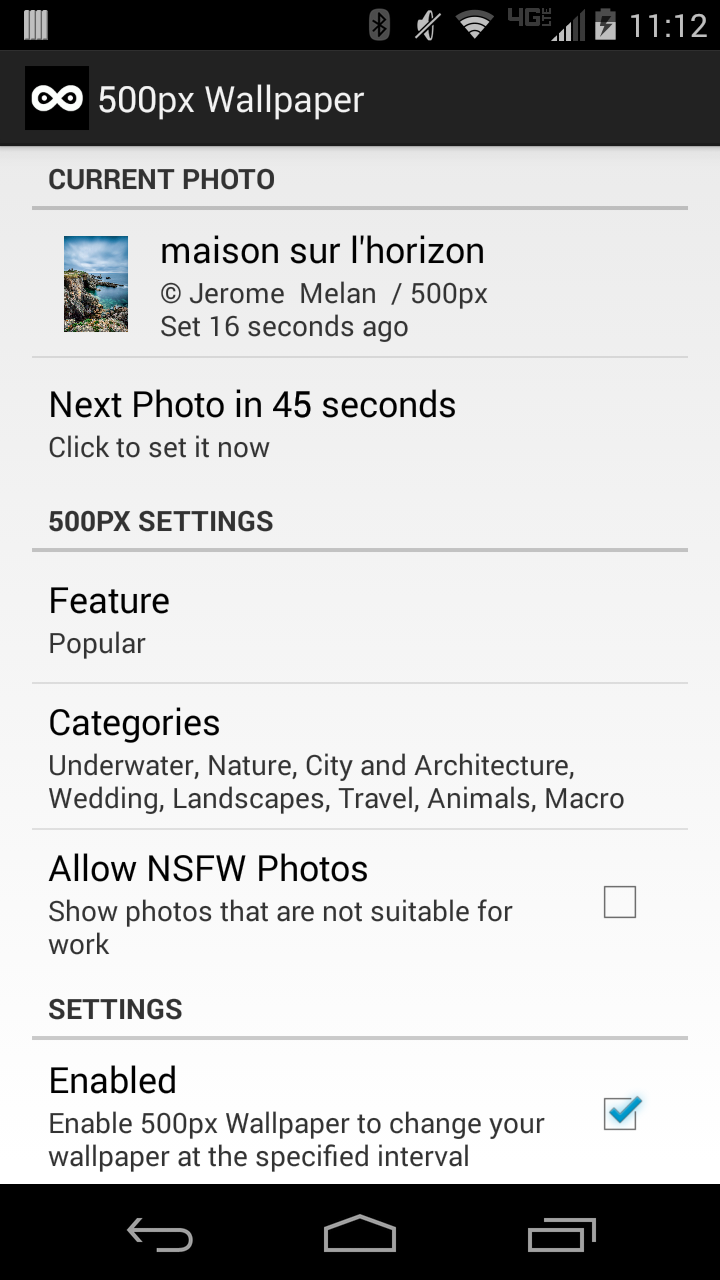
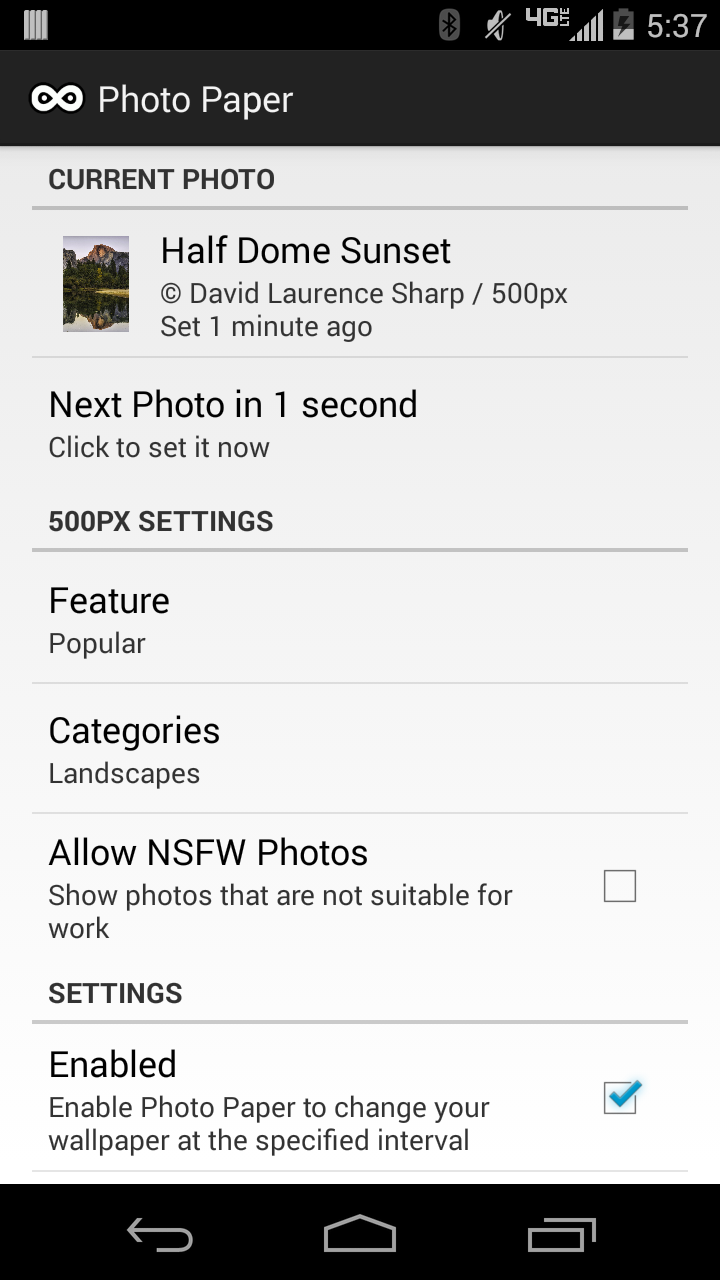
Rename to Photo Paper

diff --git a/PhotoPaper/src/main/java/com/lukekorth/android_500px/helpers/LogReporting.java b/PhotoPaper/src/main/java/com/lukekorth/android_500px/helpers/LogReporting.java
@@ -136,7 +136,7 @@ public class LogReporting {
         private File getFile() {
             File emailableLogsDir  = new File(mContext.getFilesDir(), "emailable_logs");
             emailableLogsDir.mkdir();
-            return new File(emailableLogsDir, "500px-wallpaper.log.gz");
+            return new File(emailableLogsDir, "photo-paper.log.gz");
         }
 
         private void buildEmailIntent(File file) {
@@ -144,8 +144,8 @@ public class LogReporting {
 
             mEmailIntent = new Intent(Intent.ACTION_SEND);
 		    mEmailIntent.setType("text/plain");
-            mEmailIntent.putExtra(Intent.EXTRA_EMAIL, new String[]{ "500px-wallpaper@lukekorth.com" });
-            mEmailIntent.putExtra(Intent.EXTRA_SUBJECT, "500px Wallpaper Debug Log");
+            mEmailIntent.putExtra(Intent.EXTRA_EMAIL, new String[]{ "photo-paper@lukekorth.com" });
+            mEmailIntent.putExtra(Intent.EXTRA_SUBJECT, "Photo Paper Debug Log");
 		    mEmailIntent.putExtra(Intent.EXTRA_STREAM, fileUri);
 
             // grant permissions for all apps that can handle given intent

diff --git a/PhotoPaper/src/main/java/com/lukekorth/android_500px/SettingsActivity.java b/PhotoPaper/src/main/java/com/lukekorth/android_500px/SettingsActivity.java
@@ -87,7 +87,7 @@ public class SettingsActivity extends PreferenceActivity implements
         super.onResume();
         onWallpaperChanged(null);
 
-        if (Settings.getLastUpdated(this) <= System.currentTimeMillis()) {
+        if (Utils.shouldUpdateWallpaper(this)) {
             runWallpaperService();
         }
     }

diff --git a/PhotoPaper/src/main/java/com/lukekorth/android_500px/services/WallpaperService.java b/PhotoPaper/src/main/java/com/lukekorth/android_500px/services/WallpaperService.java
@@ -19,8 +19,6 @@ import java.io.IOException;
 
 public class WallpaperService extends IntentService {
 
-    public static final int WALLPAPER_REQUEST_CODE = 1000;
-
     public WallpaperService() {
         super("WallpaperService");
     }
